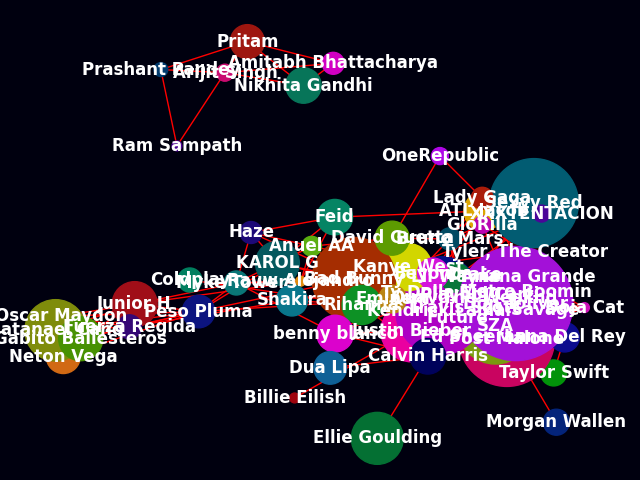
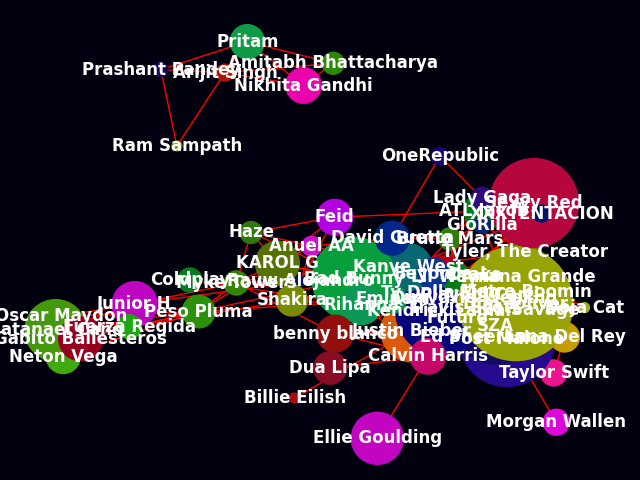
Add code to generate CSV file

diff --git a/perform_network_analysis.py b/perform_network_analysis.py
@@ -1,0 +1,105 @@
+import json
+import networkx as nx
+import matplotlib.pyplot as plt
+import numpy as np
+import randomcolor as rc
+import csv
+
+fig = plt.figure()
+
+
+def get_top_artists_with_colabs():
+    """
+    returns a list of artist_names in cleaned_artists_data.json
+        - this is all artists who were authors of tracks with collaborations
+    """
+    top_artists = []
+    with open("Miscellaneous/cleaned_artists_data.json", "r") as file:
+        data = json.load(file)
+        for artist_elem in data:
+            top_artists.append(artist_elem["artist_name"])
+    return top_artists
+
+
+def generate_random_colors():
+    """
+    returns a color map with 61 random colors - one for each node
+    """
+    color_map = []
+    init_color = rc.RandomColor()
+    for _ in range(0, 61):
+        rand_color = init_color.generate(luminosity='dark')[0]
+
+        # ensure each node in the graph has a different color
+        while rand_color in color_map:
+            rand_color = init_color.generate(luminosity='random')[0]
+
+        color_map.append(rand_color)
+    return color_map
+
+
+def generate_graph():
+    """
+    generates a graph and CSV of the data from the Spotify API
+    """
+    G = nx.Graph()
+    with open("Miscellaneous/cleaned_artists_data.json", 'r') as file:
+        data = json.load(file)
+        node_sizes = []
+        artist_num_colabs = {}
+        top_artists = get_top_artists_with_colabs()
+        for artist_elem in data:
+            artist_node_size = 0
+            for key, artist in artist_elem.items():
+                if key == "artist_name":
+                    G.add_node(artist)
+
+                if key == "artist_collaborations":
+                    for colab_artist, num_colabs in artist_elem["artist_collaborations"].items():
+                        # only add edge if colab_artist is in cleaned_artists_data.json
+                        # this ensures that the number of nodes in the graph are the same as the number of artists in cleaned_artists_data.json
+                        if colab_artist in top_artists:
+                            G.add_edge(
+                                artist_elem["artist_name"], colab_artist)
+                            artist_node_size += num_colabs
+
+            node_sizes.append(artist_node_size * 50)
+            artist_num_colabs[artist_elem["artist_name"]] = artist_node_size
+
+        pos = nx.spring_layout(G, k=3/(np.sqrt(len(G.nodes()))), seed=30)
+        color_map = generate_random_colors()
+        nx.draw(G, pos, node_size=node_sizes,
+                node_color=color_map, edge_color='red')
+        nx.draw_networkx_labels(G, pos, font_size=12,
+                                font_color='white', font_weight='bold')
+        # change background color of graph to black
+        fig.set_facecolor("#00000F")
+
+        plt.savefig("Outputs/collaboration_graph.png")
+        return G, artist_num_colabs
+
+
+def write_graph_data_to_csv(degree_centrality, artist_num_colabs):
+    """
+    Writes network analysis data/results to a CSV
+    """
+    # combine 2 dictionaries
+    combined_dict = {}
+    for artist in artist_num_colabs:
+        combined_dict[artist] = (
+            round(degree_centrality[artist], 2), artist_num_colabs[artist])
+
+    combined_dict = dict(sorted(combined_dict.items(),
+                                key=lambda item: item[1], reverse=True))
+
+    # write combined_dict to CSV file
+    with open("Outputs/network_analysis_results.csv", "w", newline='') as file:
+        fieldnames = ["Artist", "Degree Centrality", "Number of Collaborations"]
+        writer = csv.DictWriter(file, fieldnames=fieldnames)
+        writer.writeheader()
+        for key, value in combined_dict.items():
+            writer.writerow({"Artist": key, "Degree Centrality": value[0], "Number of Collaborations": value[1]})
+        
+network_graph, artist_num_colabs = generate_graph()
+degree_centrality = nx.degree_centrality(network_graph)
+write_graph_data_to_csv(degree_centrality, artist_num_colabs)

diff --git a/extract_api_data.py b/extract_api_data.py
@@ -75,7 +75,7 @@ def main():
     # setting x and y prevents getting rate limited by API before all data is collected
     x = 61  # inclusive index 
     y = 69  # non_inclusive index
-    with open("top_artists.json", "w") as file:
+    with open("Miscellaneous/top_artists.json", "w") as file:
         json.dump(top_artists, file, indent=2)
         
     for artist_id in list(top_artists.keys())[x:y]:
